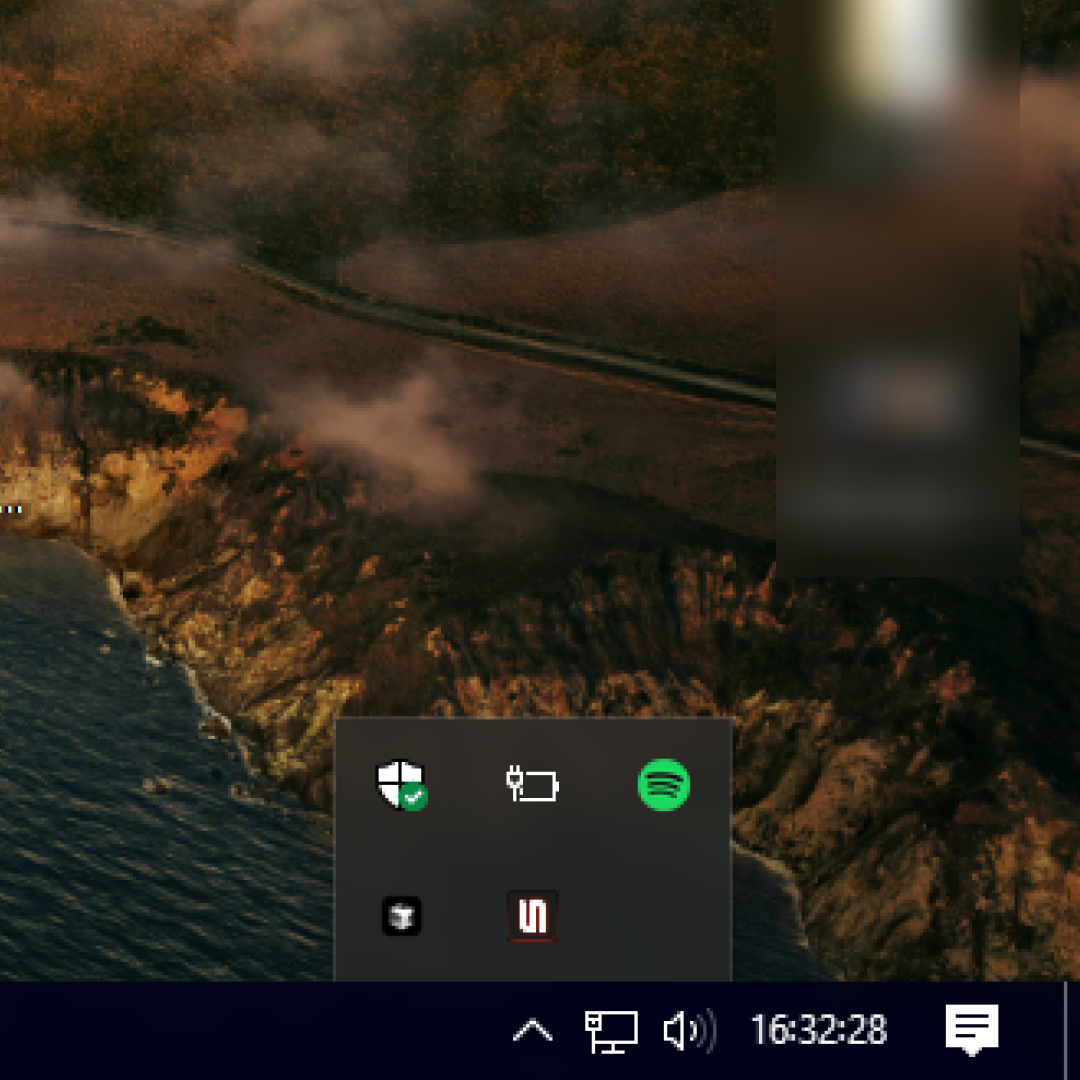
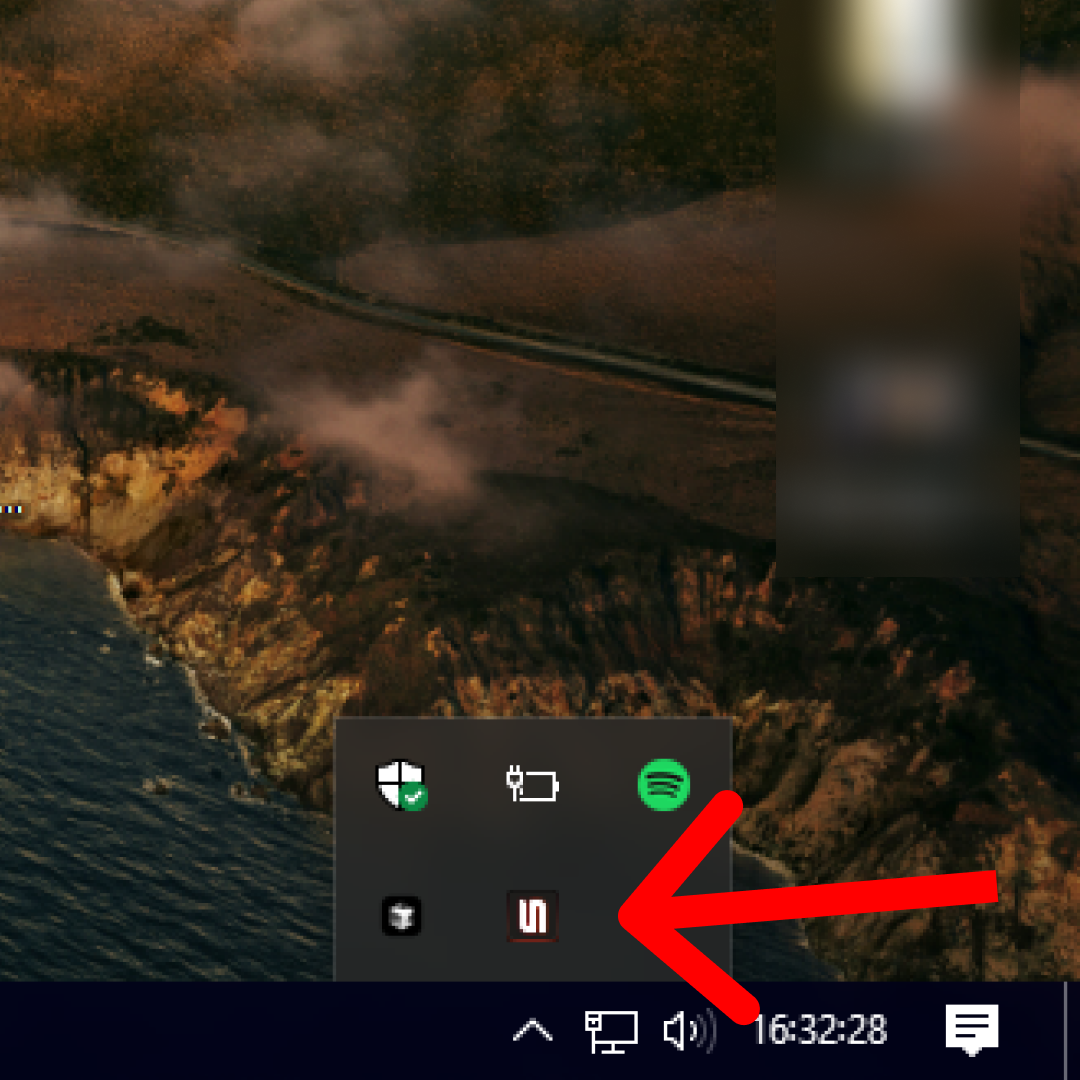
Update instruction images and refine update-required-modal

Changed region(s): [[0.55, 0.7333, 0.9472, 0.9472]]

diff --git a/src/components/ui/update-required-modal.tsx b/src/components/ui/update-required-modal.tsx
@@ -151,7 +151,7 @@ export function UpdateRequiredModal({ version, onClose }: UpdateRequiredModalPro
 
           {/* Instruction text */}
           <p className="text-center text-sm text-white leading-relaxed mb-6">
-            After exiting Sweesh from the system tray <span className="font-semibold" style={{ color: '#ff8c42' }}>(Step 2)</span>, go to the opened directory
+            After exiting Sweesh from the system tray <span className="font-semibold" style={{ color: '#ff8c42' }}>(Step 4)</span>, go to the opened directory
             <br />
             and run the latest <span className="font-semibold" style={{ color: '#ff8c42' }}>Sweesh-Setup</span> to install the update.
           </p>
